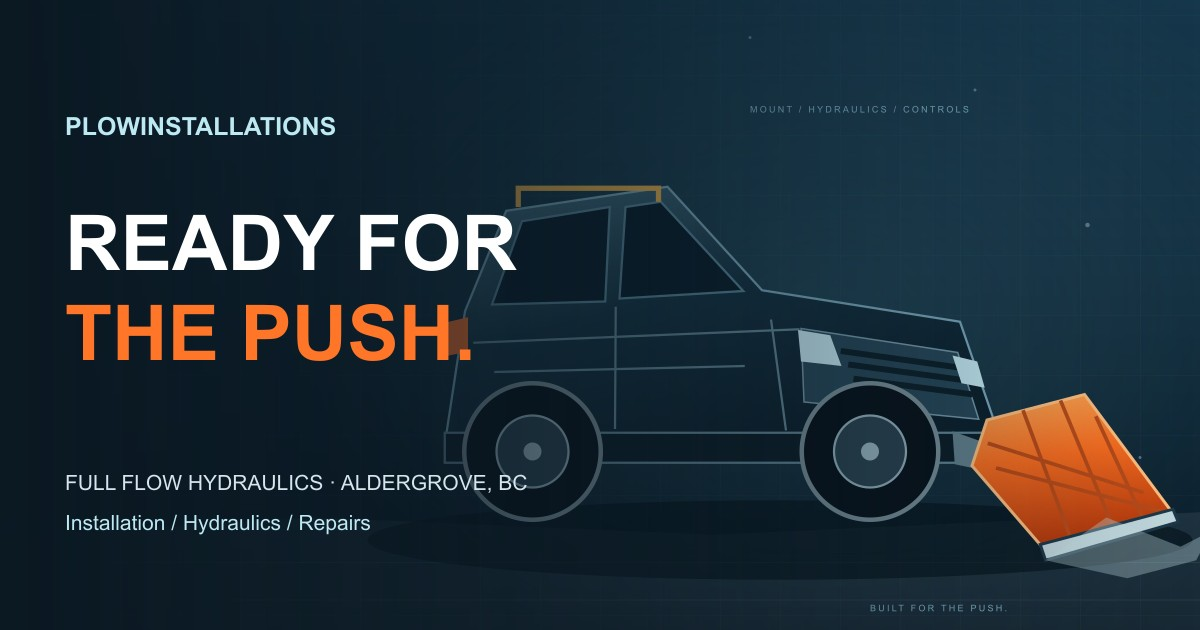
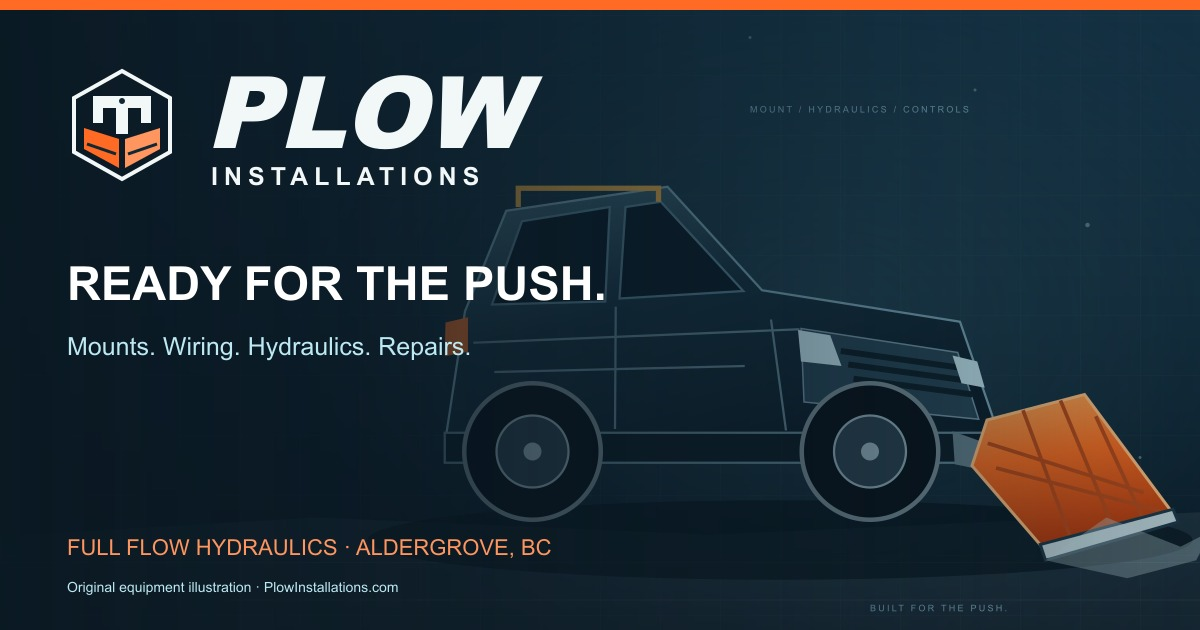
Replace truck clip-art with a bold mount-and-V-plow identity across site and sharing artwork

diff --git a/public/guides/snow-plow-installation-costs/index.html b/public/guides/snow-plow-installation-costs/index.html
@@ -1,4 +1,4 @@
-<!doctype html><html lang="en-CA"><head><meta charset="utf-8"><meta name="viewport" content="width=device-width,initial-scale=1"><title>Snow Plow Installation Costs | Durand & Full Flow Hydraulics</title><meta name="description" content="A quick snowplow installation cost breakdown for Full Flow customers: mounting, wiring, assembly and testing. Ask Durand in Aldergrove for your quote."><link rel="canonical" href="https://www.plowinstallations.com/guides/snow-plow-installation-costs/"><link rel="icon" href="/brand/plow-mark.svg"><meta name="robots" content="index,follow,max-image-preview:large"><meta property="og:type" content="article"><meta property="og:title" content="Snow plow installation: the quick cost breakdown"><meta property="og:description" content="Know what is included. Then ask Durand at Full Flow Hydraulics for a quote for your truck and plow."><meta property="og:url" content="https://www.plowinstallations.com/guides/snow-plow-installation-costs/"><meta property="og:image" content="https://www.plowinstallations.com/brand/plow-installation-costs.jpg"><meta property="og:image:width" content="1200"><meta property="og:image:height" content="630"><meta name="twitter:card" content="summary_large_image"><style>*{box-sizing:border-box}html{scroll-behavior:smooth}body{margin:0;background:#edf2f1;color:#0b1923;font:17px/1.7 Arial,sans-serif}a{color:inherit}header,footer{background:#0b1923;color:#fff;padding:24px 6%}header{display:flex;justify-content:space-between;align-items:center;gap:22px}header img{width:58px;vertical-align:middle;margin-right:12px}header a{text-decoration:none;font-weight:800}nav{display:flex;gap:20px;flex-wrap:wrap;font-size:14px}.wrap{max-width:1240px;margin:auto}.hero{background:#102734;color:#fff;padding:50px 6%;display:grid;grid-template-columns:1fr 1fr;gap:42px;align-items:center;padding-right:340px;grid-template-columns:1fr}.eyebrow{font-size:12px;letter-spacing:.12em;font-weight:bold;color:#ff955f}h1{font-size:clamp(38px,4.3vw,64px);line-height:1.05;letter-spacing:-.04em;margin:18px 0}h2{font-size:30px;line-height:1.2;letter-spacing:-.025em;margin:40px 0 16px}figure{margin:18px 0 0;max-width:1000px}figure img{display:block;width:100%;height:auto;border-radius:8px}figcaption{font-size:12px;line-height:1.5;margin-top:10px;color:#adc2cd}.byline{font-size:13px;color:#c3d4da}.article{max-width:1260px;padding:36px 350px 55px 6%;margin:auto}.answer,.callout{padding:24px;background:#fff;border-left:5px solid #ff6a25;border-radius:5px;margin:28px 0}.answer h2{margin-top:0}.cost-grid{display:grid;gap:15px}.cost-grid section{padding:22px;background:#fff;border:1px solid #c7d3d5;border-radius:8px}.cost-grid h3{margin:0 0 8px;font-size:21px}.cost-grid p{margin:0}.cost-grid small{display:block;margin-top:10px;color:#4e626b}.button{display:inline-block;padding:14px 20px;background:#ff6a25;color:#0b1923;font-weight:800;text-decoration:none;border-radius:4px}.ad{background:#142f3e;color:#fff;padding:22px 6%;display:flex;justify-content:space-between;align-items:center;gap:20px}.ad span{display:block;font-size:10px;letter-spacing:.1em;color:#bde9f2}.ad p{margin:5px 0}.ad a{white-space:nowrap}.source-list{font-size:14px}.source-list li{margin-bottom:12px}details.faq{padding:18px;background:#fff;border-bottom:1px solid #c7d3d5}summary{cursor:pointer;font-weight:bold}footer p{font-size:13px}a:focus-visible,summary:focus-visible{outline:3px solid #ff6a25;outline-offset:5px}@media(max-width:800px){header{align-items:flex-start;flex-direction:column;padding:20px}.hero{padding:30px 20px;display:block}.article{padding:20px 20px 130px}h1{font-size:39px}.ad{padding:22px;align-items:flex-start;flex-direction:column}.ad a{white-space:normal}h2{font-size:27px}}.ff-contact{position:fixed;right:18px;top:180px;width:280px;z-index:45;font:14px/1.55 Arial,sans-serif;color:#0b1923;background:#fff;border:1px solid #b8cbd1;border-radius:10px;box-shadow:0 12px 35px #0003;overflow:hidden}.ff-contact summary{background:#142f3e;color:#fff;padding:13px 16px;cursor:pointer;list-style:none;font-weight:800}.ff-contact summary::-webkit-details-marker{display:none}.ff-contact summary span{float:right;font-weight:400;font-size:12px}.ff-contact[open] .ff-show,.ff-contact:not([open]) .ff-hide{display:none}.ff-contact-body{padding:18px}.ff-contact h2{font:800 22px/1.1 Arial,sans-serif;letter-spacing:-.04em;margin:0 0 8px}.ff-contact p{margin:10px 0;font-size:13px}.ff-contact a{display:block;padding:10px 12px;margin-top:8px;text-align:center;background:#edf2f1;border-radius:4px;font-weight:700;text-decoration:none;color:#0b1923}.ff-contact a:first-of-type{background:#ff6a25}.ff-contact a:focus-visible,.ff-contact summary:focus-visible{outline:3px solid #4287ff;outline-offset:-3px}@media(max-width:800px){.ff-contact{top:auto;bottom:12px;right:12px;width:250px}.ff-contact-body{padding:12px}.ff-contact h2{font-size:19px}.ff-contact p{font-size:12px}.ff-contact a{padding:7px;margin-top:6px}}@media(max-width:800px){.ff-contact{width:264px}.ff-contact-body{display:grid;grid-template-columns:repeat(3,1fr);gap:6px;padding:10px}.ff-contact h2{grid-column:1/-1;font-size:17px;margin:0 0 3px}.ff-contact p{display:none}.ff-contact a{font-size:11px;padding:7px 4px;margin:0;display:flex;align-items:center;justify-content:center}.ff-contact a:first-of-type{grid-column:auto}.hero{padding-top:20px}}@media(min-width:801px){.ad{padding-right:340px}}</style><script type="application/ld+json">{"@context": "https://schema.org", "@type": "Article", "headline": "Snow plow installation costs: a quick breakdown for Full Flow customers", "datePublished": "2026-10-24", "dateModified": "2026-10-24", "author": {"@type": "Organization", "name": "PlowInstallations editorial"}, "publisher": {"@type": "Organization", "name": "PlowInstallations"}, "mainEntityOfPage": "https://www.plowinstallations.com/guides/snow-plow-installation-costs/", "image": "https://www.plowinstallations.com/brand/plow-installation-costs.jpg", "mentions": {"@type": "LocalBusiness", "name": "Full Flow Hydraulics", "telephone": "+16048173783", "email": "info@fullflowhydraulics.com"}}</script></head><body><header><a href="/"><img src="/brand/plow-mark.svg" alt="" width="58" height="50">PLOW INSTALLATIONS</a><nav><a href="/">The shop</a><a href="tel:+16048173783">Call Full Flow ↗</a></nav></header><main><section class="hero"><div><p class="eyebrow">ALDERGROVE · FULL FLOW HYDRAULICS</p><h1>What does a plow<br>installation cost?</h1><p>A quick breakdown for your conversation with Durand: the truck, the mount, the wiring and the work.</p><p class="byline">PlowInstallations editorial · <time datetime="2026-10-24">October 24, 2026</time></p></div><figure><img src="/brand/plow-installation-costs.jpg" width="1200" height="630" alt="Original cost-planning diagram: mount, wire, assemble and test" fetchpriority="high"><figcaption>Original PlowInstallations explanatory graphic. The steps describe quote planning, not a photograph of Full Flow’s shop or a fixed-price package.</figcaption></figure></section><article class="article"><div class="answer"><h2>How much does snow plow installation cost?</h2><p>There is no single price for every truck. Hiniker publishes a <strong>$1,000–$2,500 installation-and-setup example</strong> that includes mounting hardware, wiring and controller setup. That is broader than labour alone. It is a manufacturer’s budgeting example, not Full Flow Hydraulics’ price list or a confirmed Canadian-dollar quote. Ask Durand to price the actual equipment and work required.</p></div>
+<!doctype html><html lang="en-CA"><head><meta charset="utf-8"><meta name="viewport" content="width=device-width,initial-scale=1"><title>Snow Plow Installation Costs | Durand & Full Flow Hydraulics</title><meta name="description" content="A quick snowplow installation cost breakdown for Full Flow customers: mounting, wiring, assembly and testing. Ask Durand in Aldergrove for your quote."><link rel="canonical" href="https://www.plowinstallations.com/guides/snow-plow-installation-costs/"><link rel="icon" href="/brand/plow-mark.svg"><meta name="robots" content="index,follow,max-image-preview:large"><meta property="og:type" content="article"><meta property="og:title" content="Snow plow installation: the quick cost breakdown"><meta property="og:description" content="Know what is included. Then ask Durand at Full Flow Hydraulics for a quote for your truck and plow."><meta property="og:url" content="https://www.plowinstallations.com/guides/snow-plow-installation-costs/"><meta property="og:image" content="https://www.plowinstallations.com/brand/plow-installation-costs.jpg"><meta property="og:image:width" content="1200"><meta property="og:image:height" content="630"><meta name="twitter:card" content="summary_large_image"><style>*{box-sizing:border-box}html{scroll-behavior:smooth}body{margin:0;background:#edf2f1;color:#0b1923;font:17px/1.7 Arial,sans-serif}a{color:inherit}header,footer{background:#0b1923;color:#fff;padding:24px 6%}header{display:flex;justify-content:space-between;align-items:center;gap:22px}header img{width:58px;vertical-align:middle;margin-right:12px}header a{text-decoration:none;font-weight:800}nav{display:flex;gap:20px;flex-wrap:wrap;font-size:14px}.wrap{max-width:1240px;margin:auto}.hero{background:#102734;color:#fff;padding:50px 6%;display:grid;grid-template-columns:1fr 1fr;gap:42px;align-items:center;padding-right:340px;grid-template-columns:1fr}.eyebrow{font-size:12px;letter-spacing:.12em;font-weight:bold;color:#ff955f}h1{font-size:clamp(38px,4.3vw,64px);line-height:1.05;letter-spacing:-.04em;margin:18px 0}h2{font-size:30px;line-height:1.2;letter-spacing:-.025em;margin:40px 0 16px}figure{margin:18px 0 0;max-width:1000px}figure img{display:block;width:100%;height:auto;border-radius:8px}figcaption{font-size:12px;line-height:1.5;margin-top:10px;color:#adc2cd}.byline{font-size:13px;color:#c3d4da}.article{max-width:1260px;padding:36px 350px 55px 6%;margin:auto}.answer,.callout{padding:24px;background:#fff;border-left:5px solid #ff6a25;border-radius:5px;margin:28px 0}.answer h2{margin-top:0}.cost-grid{display:grid;gap:15px}.cost-grid section{padding:22px;background:#fff;border:1px solid #c7d3d5;border-radius:8px}.cost-grid h3{margin:0 0 8px;font-size:21px}.cost-grid p{margin:0}.cost-grid small{display:block;margin-top:10px;color:#4e626b}.button{display:inline-block;padding:14px 20px;background:#ff6a25;color:#0b1923;font-weight:800;text-decoration:none;border-radius:4px}.ad{background:#142f3e;color:#fff;padding:22px 6%;display:flex;justify-content:space-between;align-items:center;gap:20px}.ad span{display:block;font-size:10px;letter-spacing:.1em;color:#bde9f2}.ad p{margin:5px 0}.ad a{white-space:nowrap}.source-list{font-size:14px}.source-list li{margin-bottom:12px}details.faq{padding:18px;background:#fff;border-bottom:1px solid #c7d3d5}summary{cursor:pointer;font-weight:bold}footer p{font-size:13px}a:focus-visible,summary:focus-visible{outline:3px solid #ff6a25;outline-offset:5px}@media(max-width:800px){header{align-items:flex-start;flex-direction:column;padding:20px}.hero{padding:30px 20px;display:block}.article{padding:20px 20px 130px}h1{font-size:39px}.ad{padding:22px;align-items:flex-start;flex-direction:column}.ad a{white-space:normal}h2{font-size:27px}}.ff-contact{position:fixed;right:18px;top:180px;width:280px;z-index:45;font:14px/1.55 Arial,sans-serif;color:#0b1923;background:#fff;border:1px solid #b8cbd1;border-radius:10px;box-shadow:0 12px 35px #0003;overflow:hidden}.ff-contact summary{background:#142f3e;color:#fff;padding:13px 16px;cursor:pointer;list-style:none;font-weight:800}.ff-contact summary::-webkit-details-marker{display:none}.ff-contact summary span{float:right;font-weight:400;font-size:12px}.ff-contact[open] .ff-show,.ff-contact:not([open]) .ff-hide{display:none}.ff-contact-body{padding:18px}.ff-contact h2{font:800 22px/1.1 Arial,sans-serif;letter-spacing:-.04em;margin:0 0 8px}.ff-contact p{margin:10px 0;font-size:13px}.ff-contact a{display:block;padding:10px 12px;margin-top:8px;text-align:center;background:#edf2f1;border-radius:4px;font-weight:700;text-decoration:none;color:#0b1923}.ff-contact a:first-of-type{background:#ff6a25}.ff-contact a:focus-visible,.ff-contact summary:focus-visible{outline:3px solid #4287ff;outline-offset:-3px}@media(max-width:800px){.ff-contact{top:auto;bottom:12px;right:12px;width:250px}.ff-contact-body{padding:12px}.ff-contact h2{font-size:19px}.ff-contact p{font-size:12px}.ff-contact a{padding:7px;margin-top:6px}}@media(max-width:800px){.ff-contact{width:264px}.ff-contact-body{display:grid;grid-template-columns:repeat(3,1fr);gap:6px;padding:10px}.ff-contact h2{grid-column:1/-1;font-size:17px;margin:0 0 3px}.ff-contact p{display:none}.ff-contact a{font-size:11px;padding:7px 4px;margin:0;display:flex;align-items:center;justify-content:center}.ff-contact a:first-of-type{grid-column:auto}.hero{padding-top:20px}}@media(min-width:801px){.ad{padding-right:340px}}header .guide-logo{width:280px;height:auto;display:block;margin:0}@media(max-width:800px){header .guide-logo{width:260px}}</style><script type="application/ld+json">{"@context": "https://schema.org", "@type": "Article", "headline": "Snow plow installation costs: a quick breakdown for Full Flow customers", "datePublished": "2026-10-24", "dateModified": "2026-10-24", "author": {"@type": "Organization", "name": "PlowInstallations editorial"}, "publisher": {"@type": "Organization", "name": "PlowInstallations"}, "mainEntityOfPage": "https://www.plowinstallations.com/guides/snow-plow-installation-costs/", "image": "https://www.plowinstallations.com/brand/plow-installation-costs.jpg", "mentions": {"@type": "LocalBusiness", "name": "Full Flow Hydraulics", "telephone": "+16048173783", "email": "info@fullflowhydraulics.com"}}</script></head><body><header><a href="/"><img class="guide-logo" src="/brand/plow-logo-light.svg" alt="Plow Installations" width="610" height="150"></a><nav><a href="/">The shop</a><a href="tel:+16048173783">Call Full Flow ↗</a></nav></header><main><section class="hero"><div><p class="eyebrow">ALDERGROVE · FULL FLOW HYDRAULICS</p><h1>What does a plow<br>installation cost?</h1><p>A quick breakdown for your conversation with Durand: the truck, the mount, the wiring and the work.</p><p class="byline">PlowInstallations editorial · <time datetime="2026-10-24">October 24, 2026</time></p></div><figure><img src="/brand/plow-installation-costs.jpg" width="1200" height="630" alt="Original cost-planning diagram: mount, wire, assemble and test" fetchpriority="high"><figcaption>Original PlowInstallations explanatory graphic. The steps describe quote planning, not a photograph of Full Flow’s shop or a fixed-price package.</figcaption></figure></section><article class="article"><div class="answer"><h2>How much does snow plow installation cost?</h2><p>There is no single price for every truck. Hiniker publishes a <strong>$1,000–$2,500 installation-and-setup example</strong> that includes mounting hardware, wiring and controller setup. That is broader than labour alone. It is a manufacturer’s budgeting example, not Full Flow Hydraulics’ price list or a confirmed Canadian-dollar quote. Ask Durand to price the actual equipment and work required.</p></div>
 <h2>The quick breakdown: four things to price</h2><p>Use this checklist when talking to Durand at Full Flow Hydraulics in Aldergrove. Prepared by PlowInstallations editorial; the amounts below are attributed external examples, not a quotation from Durand.</p>
 <div class="cost-grid"><section><h3>01 · Mounting and truck compatibility</h3><p>Identify the truck, mounting system and plow. Ask which brackets and hardware are included, whether existing parts can be reused, and whether removal or fabrication is separate.</p></section><section><h3>02 · Wiring, controller and lighting</h3><p>Ask whether the quote covers a compatible harness, controller connections, lighting integration and testing. Existing wiring still needs assessment. Do not assume a truck prep package includes every plow component.</p></section><section><h3>03 · Assembly and accessories</h3><p>Crated assembly is a different job from fitting the plow to a truck. List the cutting edge, deflector, wings and spreader separately so the shop can define the scope.</p></section><section><h3>04 · Diagnosis and handover</h3><p>For used equipment, describe faults before booking. Ask what inspection, hydraulic checks and functional testing are included, and how any extra repairs will be approved.</p></section></div>
 <h2>What published shop rates actually tell you</h2><p>These examples show why line items matter. They do not establish a Lower Mainland average or Full Flow’s rates. Dollar figures stay as published; US-shop amounts have not been converted to Canadian dollars.</p><ul><li><strong>Installation and setup:</strong> Hiniker’s $1,000–$2,500 example includes mounting hardware, wiring and controller setup.</li><li><strong>US shop example:</strong> SnowplowsPlus in Waverly, Minnesota lists $850 for a new plow package install and $150 for crated-plow assembly. Its page also advertises a starting price of $700; confirm the applicable package with that shop rather than treating either figure as universal.</li><li><strong>Accessories:</strong> that same US shop lists $75 for a cutting-edge installation, with another $25 if old bolts require torching, and $125–$175 for snow deflectors. Parts and additional work may be separate.</li><li><strong>Canadian diagnostic example:</strong> Snow Removal Experts in Maple Ridge publishes $150 per hour for repairs and diagnostics, while installation is quoted at a flat rate. That is another business’s stated rate, not Durand’s.</li></ul><p>If adding a spreader, ask for a separate line item covering the mounting arrangement, wiring, controls and any required repairs. Confirm current prices directly with the installer.</p>

diff --git a/src/plow-refresh.css b/src/plow-refresh.css
@@ -19,3 +19,6 @@
 @media(max-width:800px){.pi-nav{flex-direction:column;align-items:flex-start;gap:18px}.pi-nav nav{width:100%;display:flex;flex-wrap:wrap;gap:14px 20px}.pi-nav-call{padding:12px 15px}.pi-hero h1{font-size:76px}}
 
 @media(min-width:801px){.pi-ad-slim{padding-right:340px}.pi-wow-inner{padding-right:300px}}
+
+/* Vector mount-and-blade identity: consistent header and hero lockups. */
+.pi-brand{display:inline-flex;flex-direction:column;align-items:flex-start;gap:7px;line-height:1}.pi-brand .pi-logo-lockup{display:block;width:270px;height:auto;max-width:100%;object-fit:contain}.pi-logo-tagline{display:block;margin-left:67px;color:#ff955f;font:700 9px/1.4 Inter,Arial,sans-serif;letter-spacing:.2em}.pi-brand-large{align-items:center;filter:drop-shadow(0 3px 15px #0009)}.pi-brand-large .pi-logo-lockup{width:390px;height:auto}.pi-brand-large .pi-logo-tagline{margin-left:0;font-size:10px;letter-spacing:.3em}.pi-hero-identity{padding-bottom:34px}@media(max-width:800px){.pi-brand .pi-logo-lockup{width:245px}.pi-logo-tagline{margin-left:62px;font-size:8px}.pi-brand-large .pi-logo-lockup{width:295px}.pi-brand-large .pi-logo-tagline{font-size:8px;margin-left:0}.pi-hero-identity{padding-bottom:32px}}

diff --git a/src/App.tsx b/src/App.tsx
@@ -275,8 +275,8 @@ export default function App() {
         <div className="max-w-7xl mx-auto px-4 sm:px-6 lg:px-8">
           <div className="flex flex-col md:flex-row items-center justify-between gap-4 border-b border-slate-900 pb-6">
             <div className="flex items-center space-x-3">
-              <div className="w-9 h-9 rounded-xl bg-amber-500 flex items-center justify-center text-slate-950 font-black">
-                <Truck className="w-5 h-5" />
+              <div className="w-12 h-12 flex items-center justify-center">
+                <img src="/brand/plow-mark.svg" alt="" width="44" height="46" />
               </div>
               <div>
                 <span className="font-mono font-black text-white text-sm">

diff --git a/src/components/PlowBrand.tsx b/src/components/PlowBrand.tsx
@@ -1,1 +1,1 @@
-export function PlowBrand({large=false}:{large?:boolean}) { return <span className={`pi-brand ${large?'pi-brand-large':''}`}><img src="/brand/plow-mark.svg" alt="" width="74" height="62"/><span>PLOW<span className="pi-brand-light">INSTALLATIONS</span><small>BUILT FOR THE PUSH.</small></span></span> }
+export function PlowBrand({large=false}:{large?:boolean}) { return <span className={`pi-brand ${large?'pi-brand-large':''}`}><img className="pi-logo-lockup" src="/brand/plow-logo-light.svg" alt="Plow Installations" width="610" height="150"/><span className="pi-logo-tagline">BUILT FOR THE PUSH.</span></span> }
